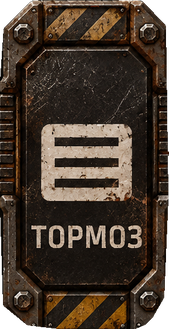
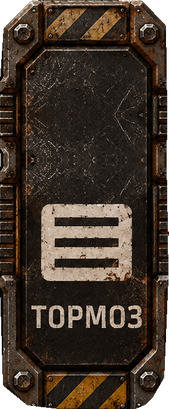
All driving buttons in one row, as tall as the gas pedal
Steering buttons are rebuilt on the tall pedal frame with the arrow from the square
art; the brake frame is extended the same way.

Claude-Session: https://claude.ai/code/session_01YKZH6MsbyP26yN359MRGpc

diff --git a/apocgo/src/game/touchpad.js b/apocgo/src/game/touchpad.js
@@ -4,22 +4,17 @@
 
 import { text } from '../engine/text.js';
 import { art } from './art.js';
-import { PORTRAIT, UI_W, UI_H } from './config.js';
+import { UI_W, UI_H } from './config.js';
 
 export function touchButtons() {
   return [
-    // sizes follow the button art's proportions (assets/btn*.png)
-    // steering sits higher than the pedals (easier for the thumb in portrait)
-    { action: 'left', label: '', icon: 'left', art: 'btnLeft', x: 6, y: UI_H - steerLift() - 60, w: 52, h: 54 },
-    { action: 'right', label: '', icon: 'right', art: 'btnRight', x: 62, y: UI_H - steerLift() - 60, w: 52, h: 54 },
+    // one row along the bottom, all as tall as the gas pedal (art is 169-183 x 409 px)
+    { action: 'left', label: '', icon: 'left', art: 'btnLeft', x: 6, y: UI_H - 109, w: 43, h: 103 },
+    { action: 'right', label: '', icon: 'right', art: 'btnRight', x: 55, y: UI_H - 109, w: 43, h: 103 },
+    { action: 'brake', label: 'ТОРМОЗ', icon: 'brake', art: 'btnBrake', x: UI_W - 101, y: UI_H - 109, w: 43, h: 103 },
     { action: 'gas', label: 'ГАЗ', icon: 'gas', art: 'btnGas', x: UI_W - 52, y: UI_H - 109, w: 46, h: 103 },
-    { action: 'brake', label: 'ТОРМОЗ', icon: 'brake', art: 'btnBrake', x: UI_W - 100, y: UI_H - 92, w: 44, h: 86 },
     { action: 'pause', label: '', icon: 'pause', x: UI_W / 2 - 14, y: 4, w: 28, h: 18 },
   ];
-}
-
-function steerLift() {
-  return PORTRAIT ? 64 : 30;
 }
 
 /** Is this a touch-first device (phone / tablet)? */

diff --git a/apocgo/tools/build_assets.py b/apocgo/tools/build_assets.py
@@ -387,6 +387,7 @@ BUTTONS = {'Left': (38, 400, 372, 752), 'Right': (388, 400, 722, 752),
 def buttons():
     import cv2
     ref = np.array(Image.open(Path(__file__).parent / 'buttons' / 'buttons.png').convert('RGB'))
+    cut = {}
     for name, (x0, y0, x1, y1) in BUTTONS.items():
         pad = 12
         crop = ref[y0 - pad:y1 + pad, x0 - pad:x1 + pad]
@@ -407,8 +408,67 @@ def buttons():
         img = Image.fromarray(out, 'RGBA')
         img = img.crop(img.getbbox())
         img = img.resize((img.width * 3 // 5, img.height * 3 // 5), Image.LANCZOS)
+        cut[name] = img
+    # steering buttons: the tall brake frame, emptied, with the arrow from the square art
+    # (the square buttons' panel has chamfered corners, so it can't be stretched itself)
+    brake = cut['Brake']
+    blank = tile_rows(brake, (70, 115), 285 - 70)
+    blank = Image.fromarray(np.vstack([np.array(brake)[:70], np.array(blank), np.array(brake)[285:]]), 'RGBA')
+    for name in ('Left', 'Right'):
+        arrow = cut[name].crop(ARROW_BOX)
+        a = np.array(arrow).astype(np.float32)
+        a[..., 3] *= ellipse_fade(a.shape[0], a.shape[1], 0.3)
+        arrow = Image.fromarray(a.astype(np.uint8), 'RGBA')
+        tall = stretch_tall(blank, BUTTON_BANDS['Brake'], BUTTON_HEIGHT)
+        tall.alpha_composite(arrow, ((tall.width - arrow.width) // 2, (tall.height - arrow.height) // 2))
+        cut[name] = tall
+    cut['Brake'] = stretch_tall(brake, BUTTON_BANDS['Brake'], BUTTON_HEIGHT)
+    for name, img in cut.items():
         img.save(OUT / f'btn{name}.png')
         print(f'btn{name}', img.size)
+
+
+def tile_rows(img, band, height):
+    """`height` rows made of the `band` rows of img, repeated mirrored (no seams)."""
+    src = np.array(img)[band[0]:band[1]]
+    rows, flip = [], True
+    while sum(r.shape[0] for r in rows) < height:
+        rows.append(src[::-1] if flip else src)
+        flip = not flip
+    return Image.fromarray(np.vstack(rows)[:height], 'RGBA')
+
+
+# All buttons are made as tall as the gas pedal: plain panel bands (rows of the button,
+# away from icons and bolts) are repeated, mirrored, to fill the extra height.
+BUTTON_HEIGHT = 409
+BUTTON_BANDS = {'Brake': [(70, 115)]}
+ARROW_BOX = (28, 40, 164, 162)  # the arrow and some dark panel around it, in the square art
+
+
+def stretch_tall(img, bands, height):
+    if not bands or img.height >= height:
+        return img
+    extra = height - img.height
+    parts, y = [], 0
+    for i, (b0, b1) in enumerate(bands):
+        add = extra // len(bands) + (extra % len(bands) if i == 0 else 0)
+        parts.append(img.crop((0, y, img.width, b1)))
+        band = img.crop((0, b0, img.width, b1))
+        flip = True
+        while add > 0:
+            piece = band.transpose(Image.FLIP_TOP_BOTTOM) if flip else band
+            piece = piece.crop((0, 0, img.width, min(add, piece.height)))
+            parts.append(piece)
+            add -= piece.height
+            flip = not flip
+        y = b1
+    parts.append(img.crop((0, y, img.width, img.height)))
+    out = Image.new('RGBA', (img.width, sum(p.height for p in parts)))
+    y = 0
+    for part in parts:
+        out.paste(part, (0, y))
+        y += part.height
+    return out
 
 
 if __name__ == '__main__':
